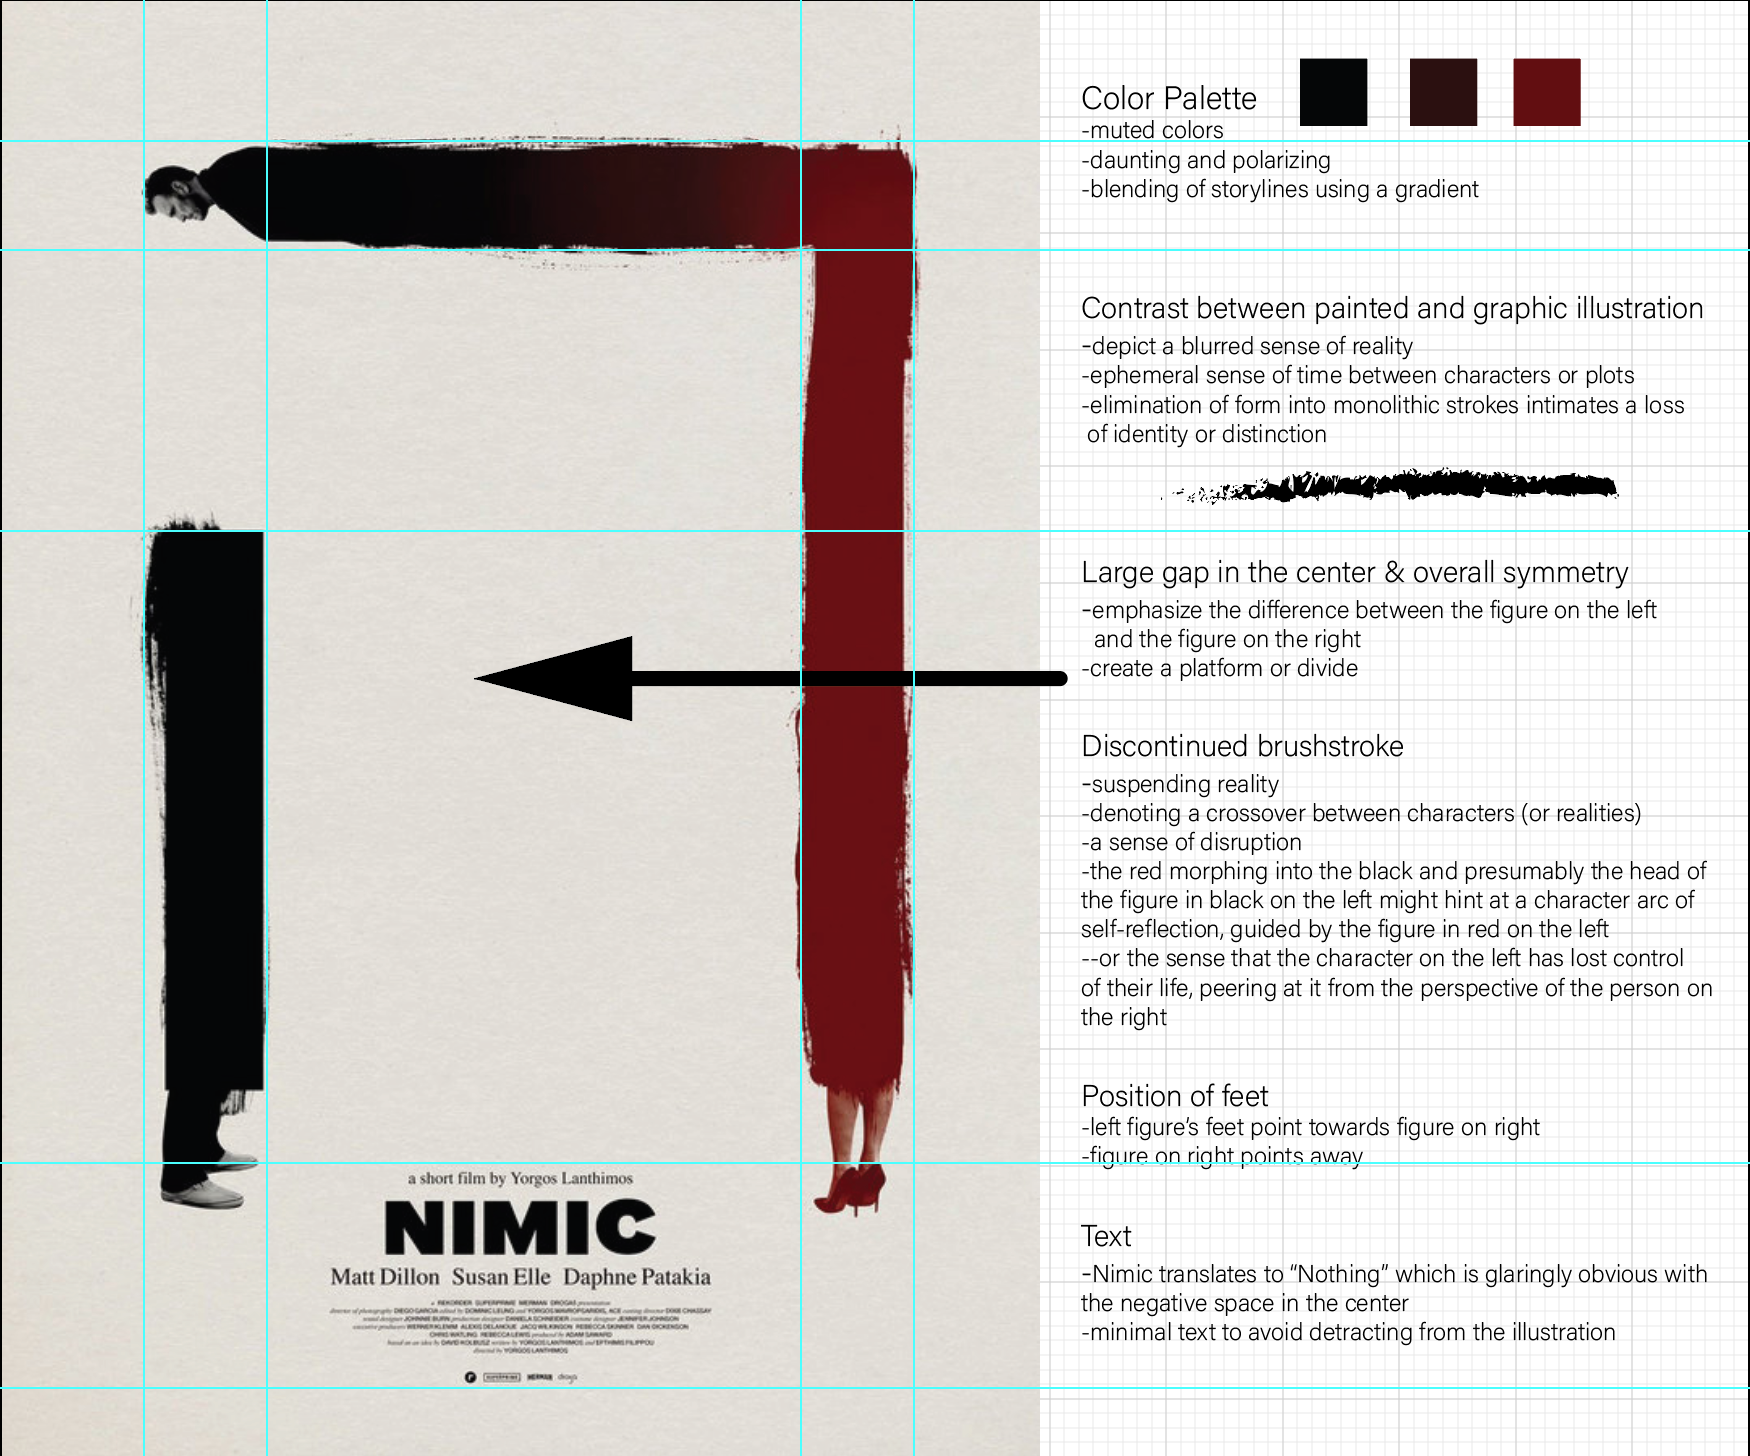
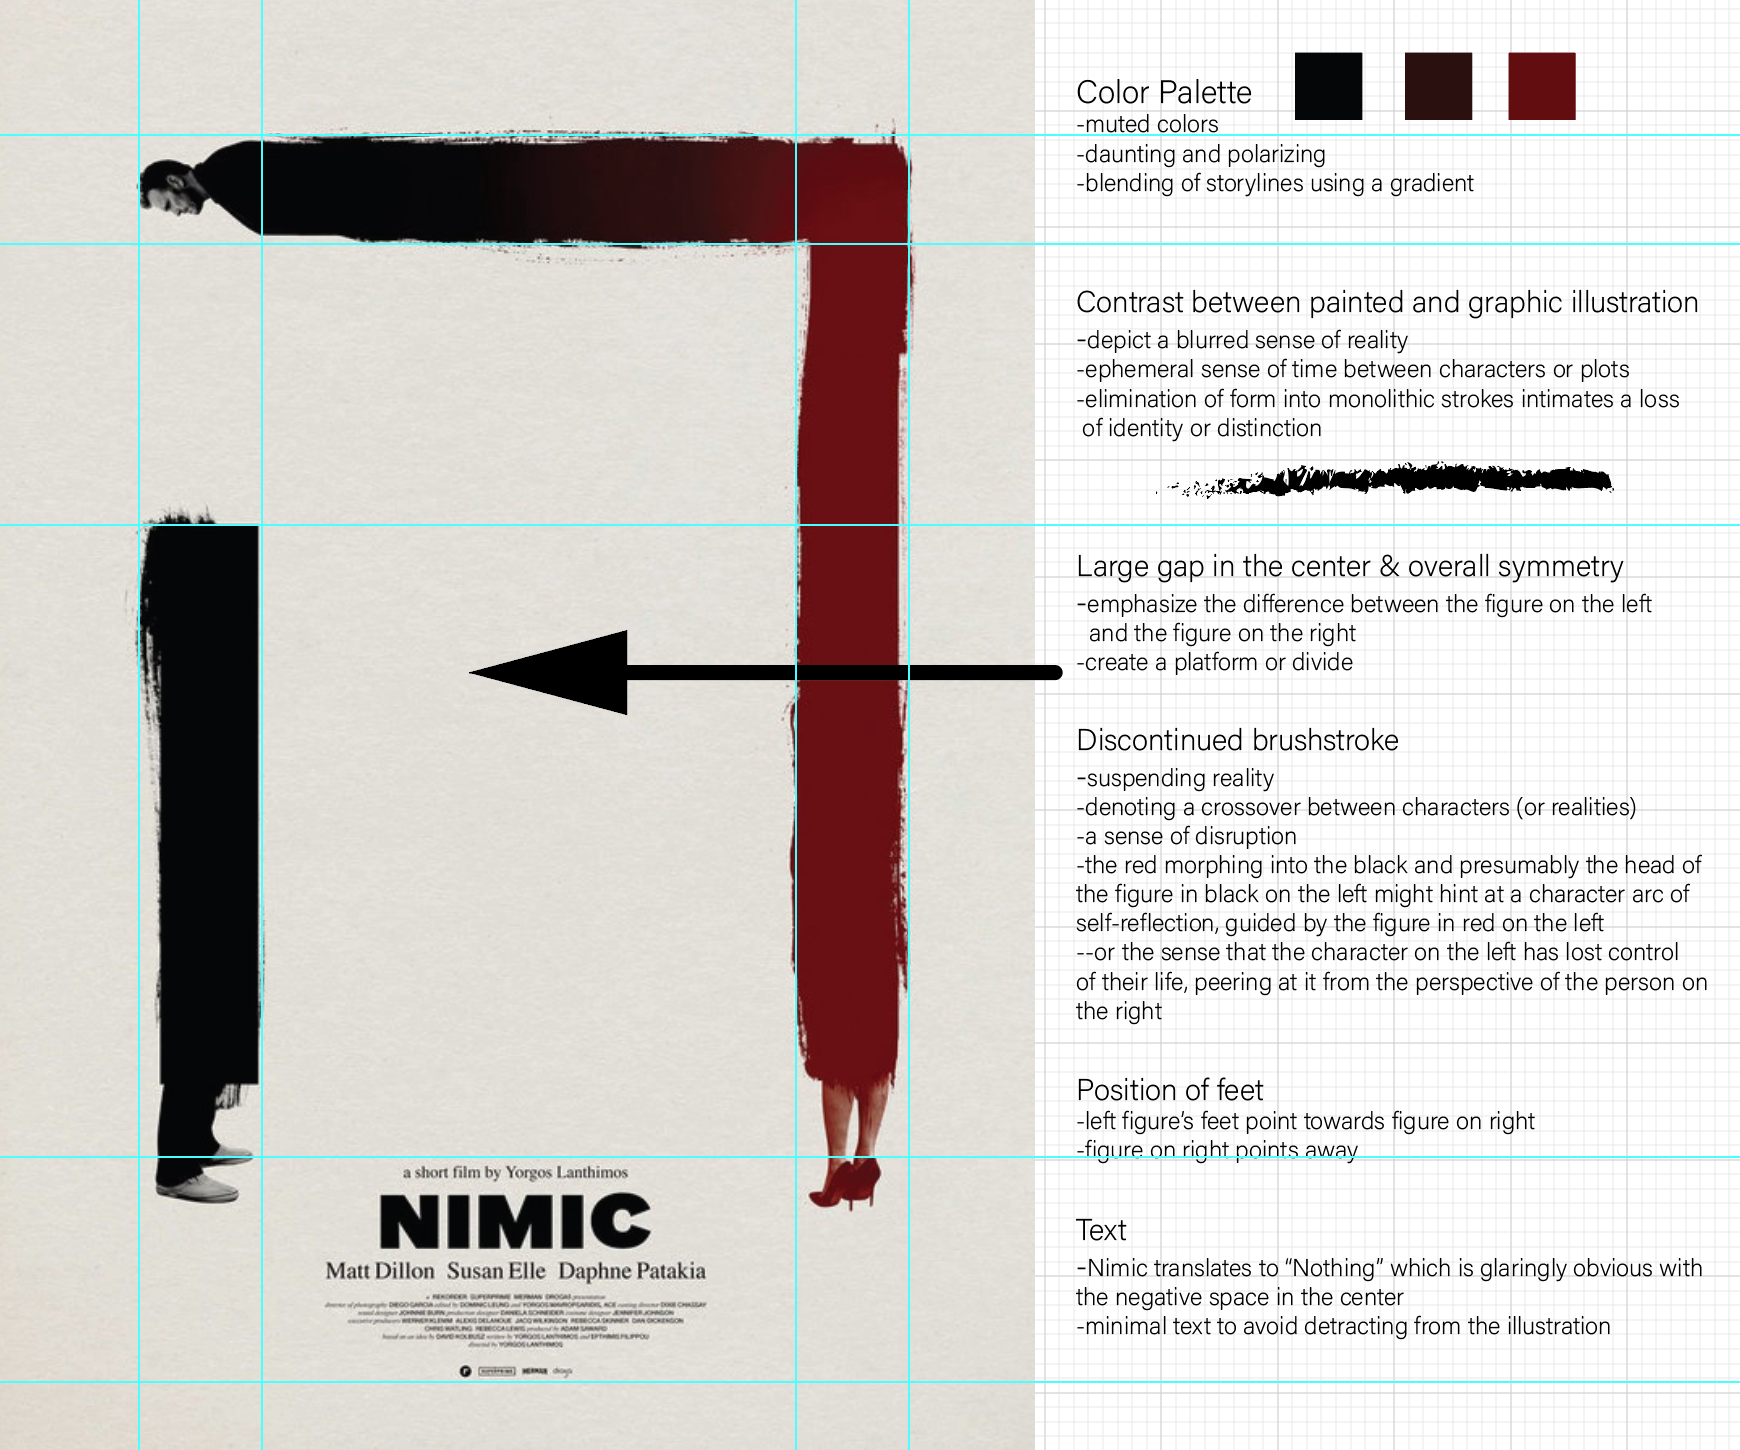
new w/h

diff --git a/blog.html b/blog.html
@@ -18,13 +18,13 @@
     <p>
       First Poster Sketches
     </p>
-    <img src="Blog/inthemood4.jpg" />
-    <img src="Blog/VirginSuicides.jpg" />
+    <img src="Blog/inthemood4.jpg" width="1080" height="1920" />
+    <img src="Blog/VirginSuicides.jpg" width="1080" height="1920"/>
 <p>
   Poster Analyses
 </p>
-<img src="Blog/PosterAnalysis1.png" />
-<img src="Blog/PosterAnalysis2.png" />
+<img src="Blog/PosterAnalysis1.png" width="1024"/>
+<img src="Blog/PosterAnalysis2.png" width="1024"/>
     <p>
     First P5 Sketch
     </p>
